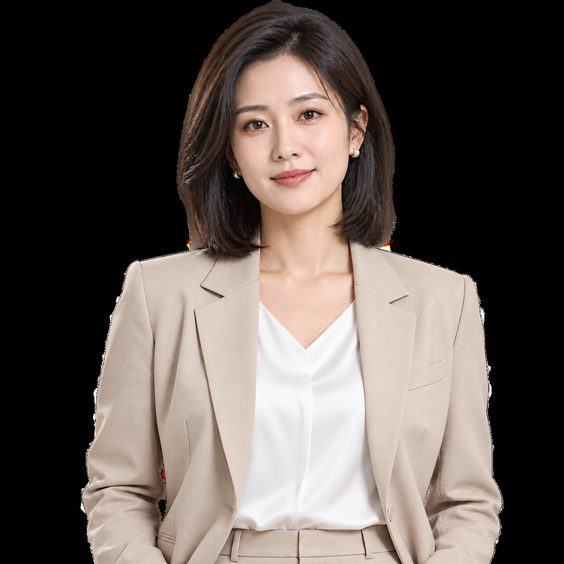
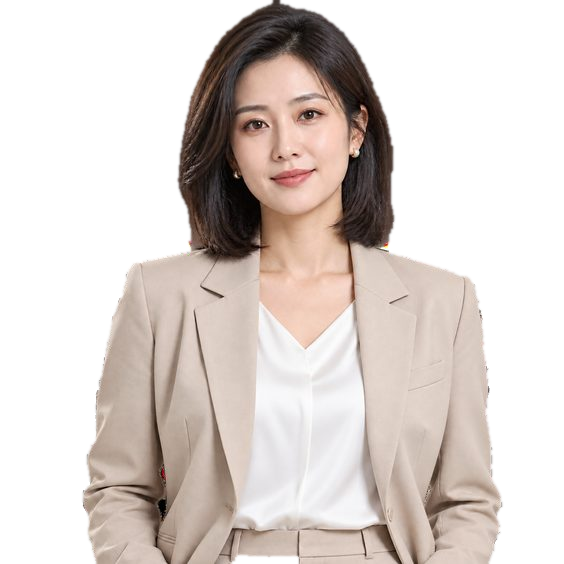
fix: B(林总监)人物图黑底转透明抠图,去白边描边; 新增抠图修复脚本

diff --git a/assets/fix_matte.py b/assets/fix_matte.py
@@ -1,0 +1,58 @@
+# -*- coding: utf-8 -*-
+"""人物抠图描边修复：去白边、去孤立杂点、边缘重新羽化。
+原理：实心区向内收缩 2px（把白边和毛刺连根切掉），再把内部颜色
+向外渗到边缘带，最后给 alpha 做一次轻微高斯羽化，边缘就顺了。
+用法: python fix_matte.py B          （处理 B_calm/smile/... 共5张）
+      python fix_matte.py B_calm.png （只处理单张）
+"""
+import sys
+from pathlib import Path
+
+from PIL import Image, ImageFilter
+
+EXPR = ["calm", "smile", "thinking", "awkward", "displeased"]
+ASSETS = Path(__file__).parent
+
+
+def fill_rgb(rgb, solid):
+    """把实心区的颜色逐轮向外渗，填满边缘带（MaxFilter 3x3 扩张）。"""
+    cur = rgb.copy()
+    known = solid
+    for _ in range(40):
+        dil = cur.filter(ImageFilter.MaxFilter(3))
+        grow_mask = known.point(lambda v: 0 if v else 255)
+        cur = Image.composite(dil, cur, grow_mask)
+        new_known = known.filter(ImageFilter.MaxFilter(3))
+        if new_known.getbbox() == known.getbbox() and list(new_known.getdata()) == list(known.getdata()):
+            break
+        known = new_known
+    return cur
+
+
+def clean(path):
+    im = Image.open(path).convert("RGBA")
+    alpha = im.getchannel("A")
+    solid = alpha.point(lambda v: 255 if v > 200 else 0)
+    # 向内收缩 2px：白边、红点等毛刺都在最外 1~2px，连根切掉
+    er = solid.filter(ImageFilter.MinFilter(3)).filter(ImageFilter.MinFilter(3))
+    rgb_filled = fill_rgb(im.convert("RGB"), er)
+    # 边缘重新羽化 1px，平滑锯齿
+    new_alpha = er.filter(ImageFilter.GaussianBlur(1.0))
+    out = Image.merge("RGBA", (*rgb_filled.split(), new_alpha))
+    out.save(path)
+    print("fixed", path.name)
+
+
+def main():
+    arg = sys.argv[1] if len(sys.argv) > 1 else "B"
+    if arg.endswith(".png"):
+        clean(ASSETS / arg)
+    else:
+        for e in EXPR:
+            p = ASSETS / f"{arg}_{e}.png"
+            if p.exists():
+                clean(p)
+
+
+if __name__ == "__main__":
+    main()

diff --git a/assets/key_black.py b/assets/key_black.py
@@ -1,0 +1,53 @@
+# -*- coding: utf-8 -*-
+"""黑底人物图转透明抠图：从边缘泛洪找出真正的黑背景（保住黑发），
+再收缩 2px 去白边、颜色外渗、羽化边缘。
+用法: python key_black.py B   （处理 B_calm/smile/... 共5张）
+"""
+import sys
+from pathlib import Path
+
+import numpy as np
+from PIL import Image, ImageDraw, ImageFilter
+
+from fix_matte import fill_rgb, EXPR
+
+ASSETS = Path(__file__).parent
+
+
+def keyout(path, thr=40):
+    im = Image.open(path).convert("RGBA")
+    arr = np.asarray(im).copy()
+    rgb = im.convert("RGB")
+    w, h = rgb.size
+    # 从四角和四边中点泛洪：只有与边缘相连的纯黑才算背景
+    seeds = [(0, 0), (w - 1, 0), (0, h - 1), (w - 1, h - 1),
+             (w // 2, 0), (w // 2, h - 1), (0, h // 2), (w - 1, h // 2)]
+    mark = (255, 0, 255)
+    for s in seeds:
+        ImageDraw.floodfill(rgb, s, mark, thresh=thr)
+    m = np.asarray(rgb)
+    bg = (m[..., 0] == 255) & (m[..., 1] == 0) & (m[..., 2] == 255)
+    arr[..., 3] = np.where(bg, 0, 255).astype(np.uint8)
+
+    keyed = Image.fromarray(arr, "RGBA")
+    # 收缩 2px 去白边/杂点，颜色从内部外渗，再羽化
+    solid = keyed.getchannel("A").point(lambda v: 255 if v > 200 else 0)
+    er = solid.filter(ImageFilter.MinFilter(3)).filter(ImageFilter.MinFilter(3))
+    rgb_filled = fill_rgb(keyed.convert("RGB"), er)
+    new_alpha = er.filter(ImageFilter.GaussianBlur(1.0))
+    out = Image.merge("RGBA", (*rgb_filled.split(), new_alpha))
+    out.save(path)
+    n_bg = int(bg.sum())
+    print(f"fixed {path.name}: 背景像素 {n_bg} ({100 * n_bg / (w * h):.0f}%)")
+
+
+def main():
+    arg = sys.argv[1] if len(sys.argv) > 1 else "B"
+    for e in EXPR:
+        p = ASSETS / f"{arg}_{e}.png"
+        if p.exists():
+            keyout(p)
+
+
+if __name__ == "__main__":
+    main()
